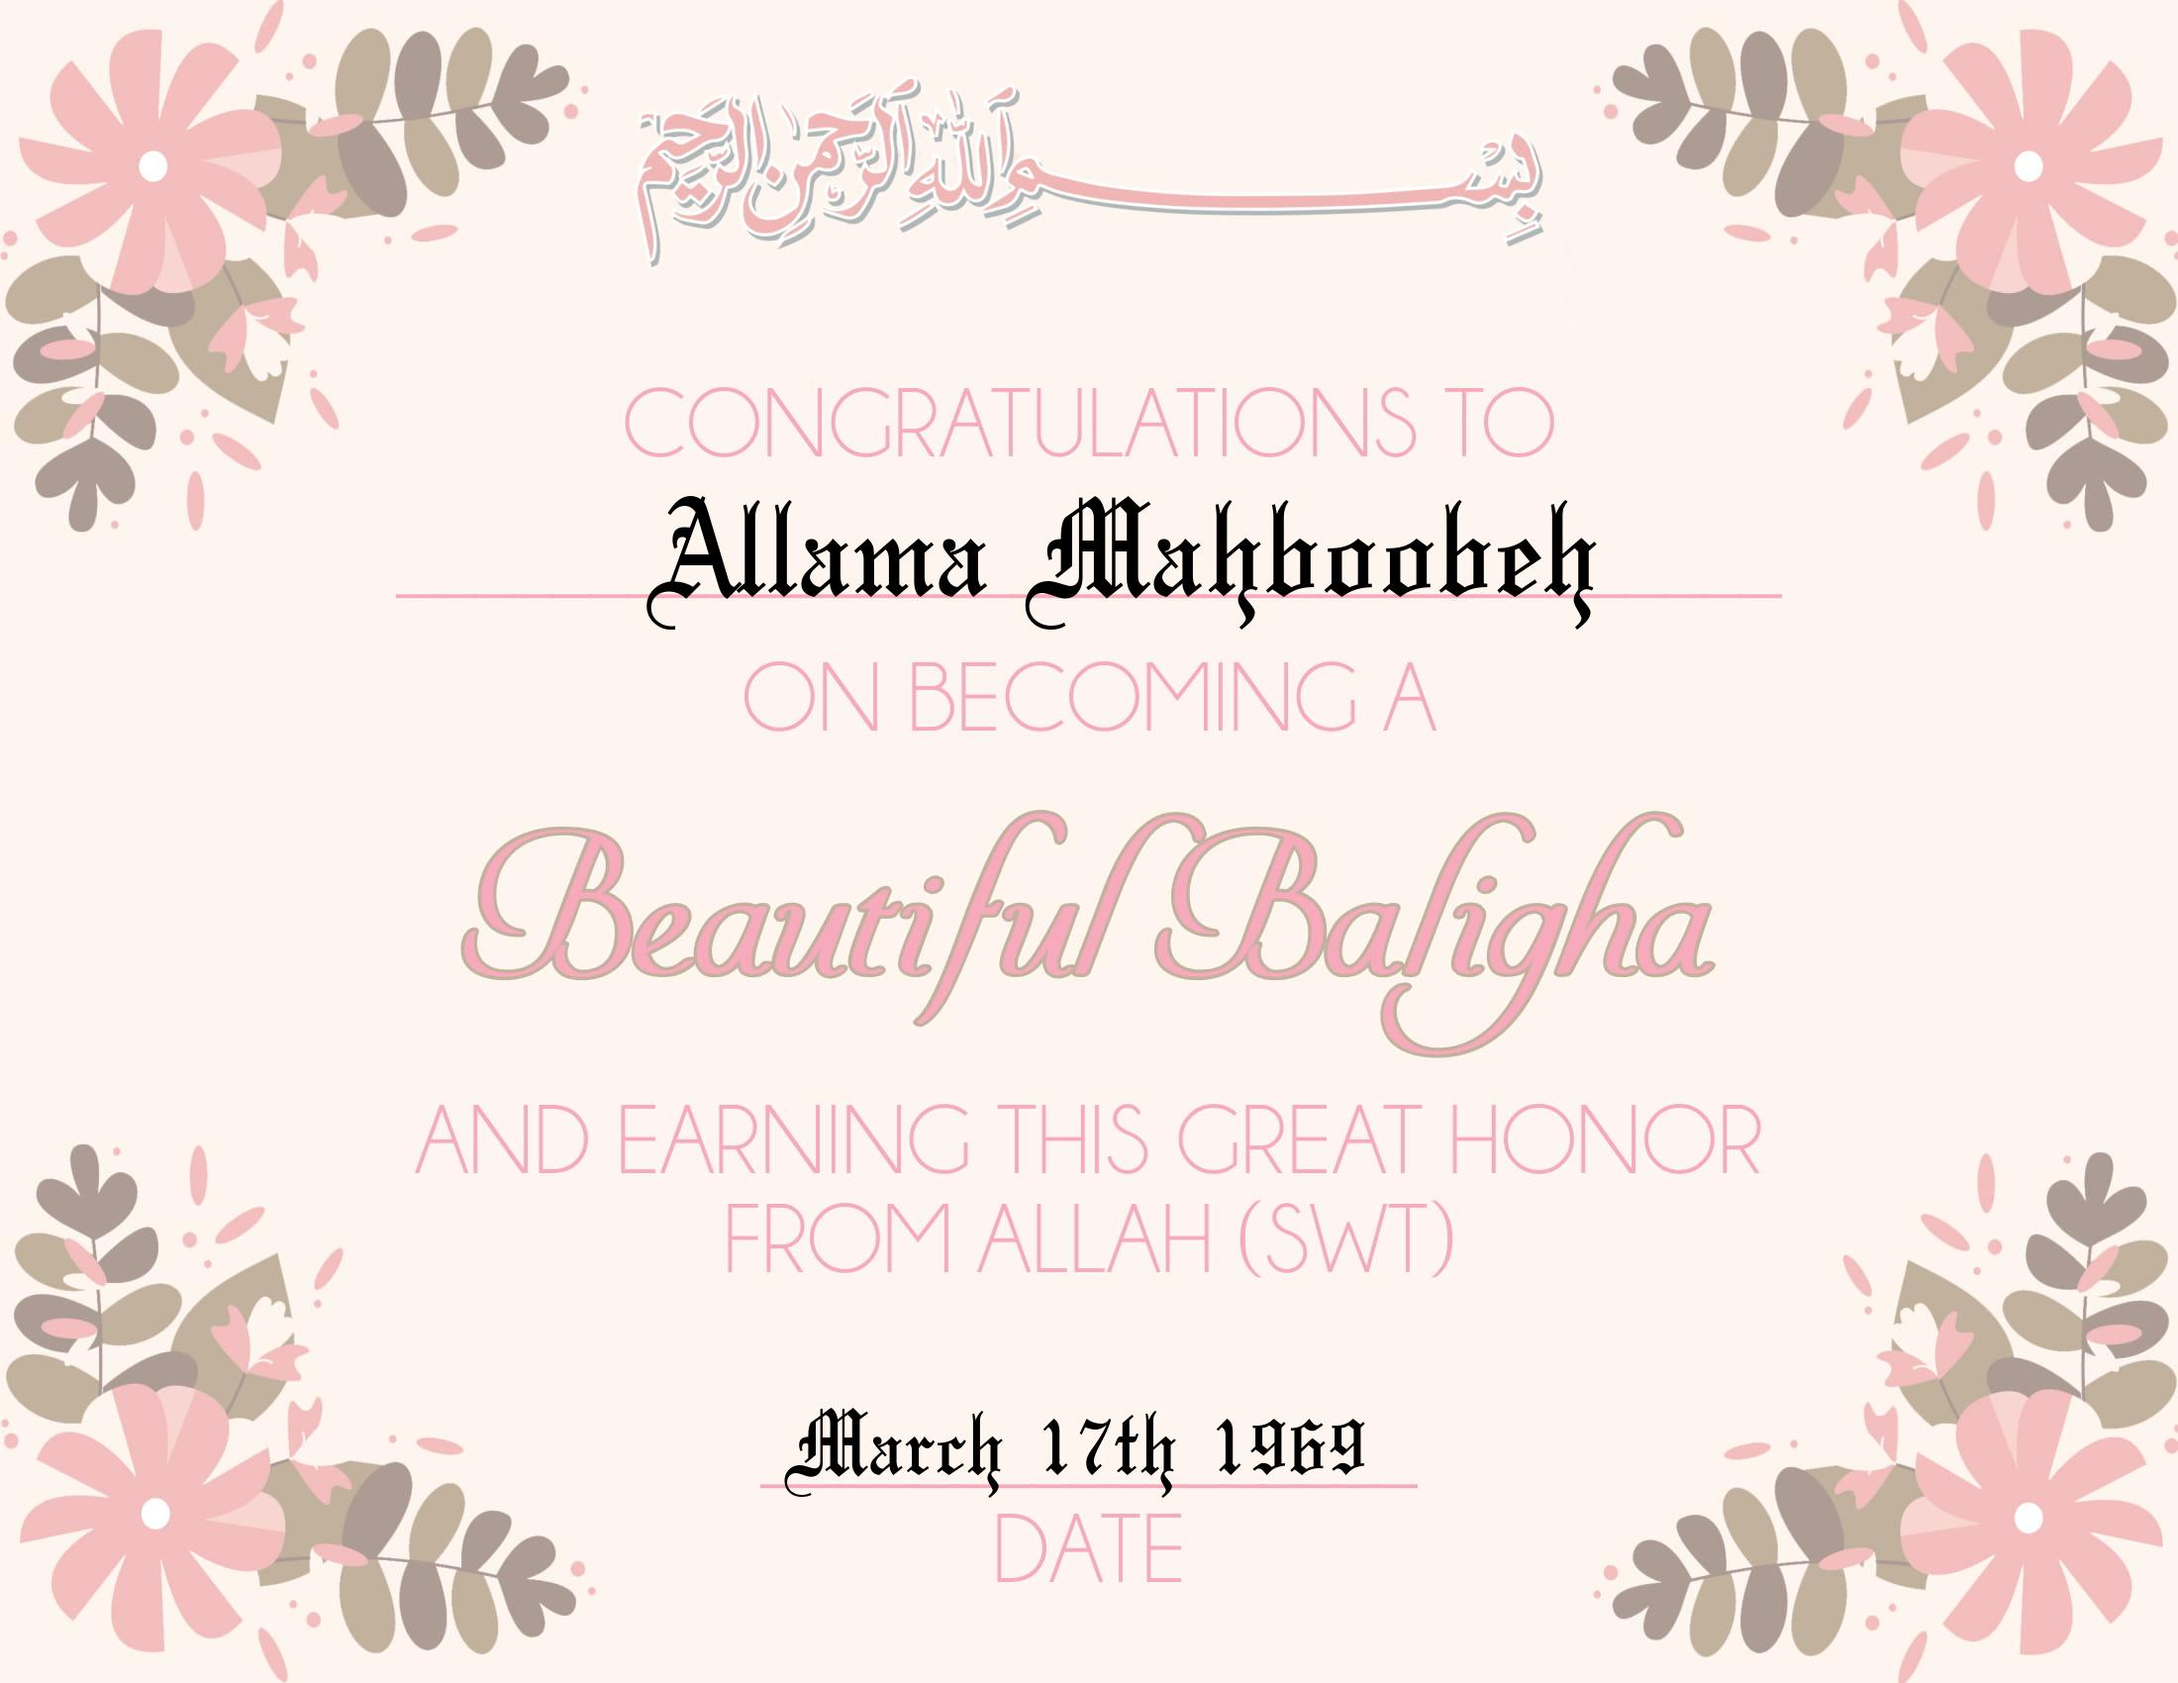
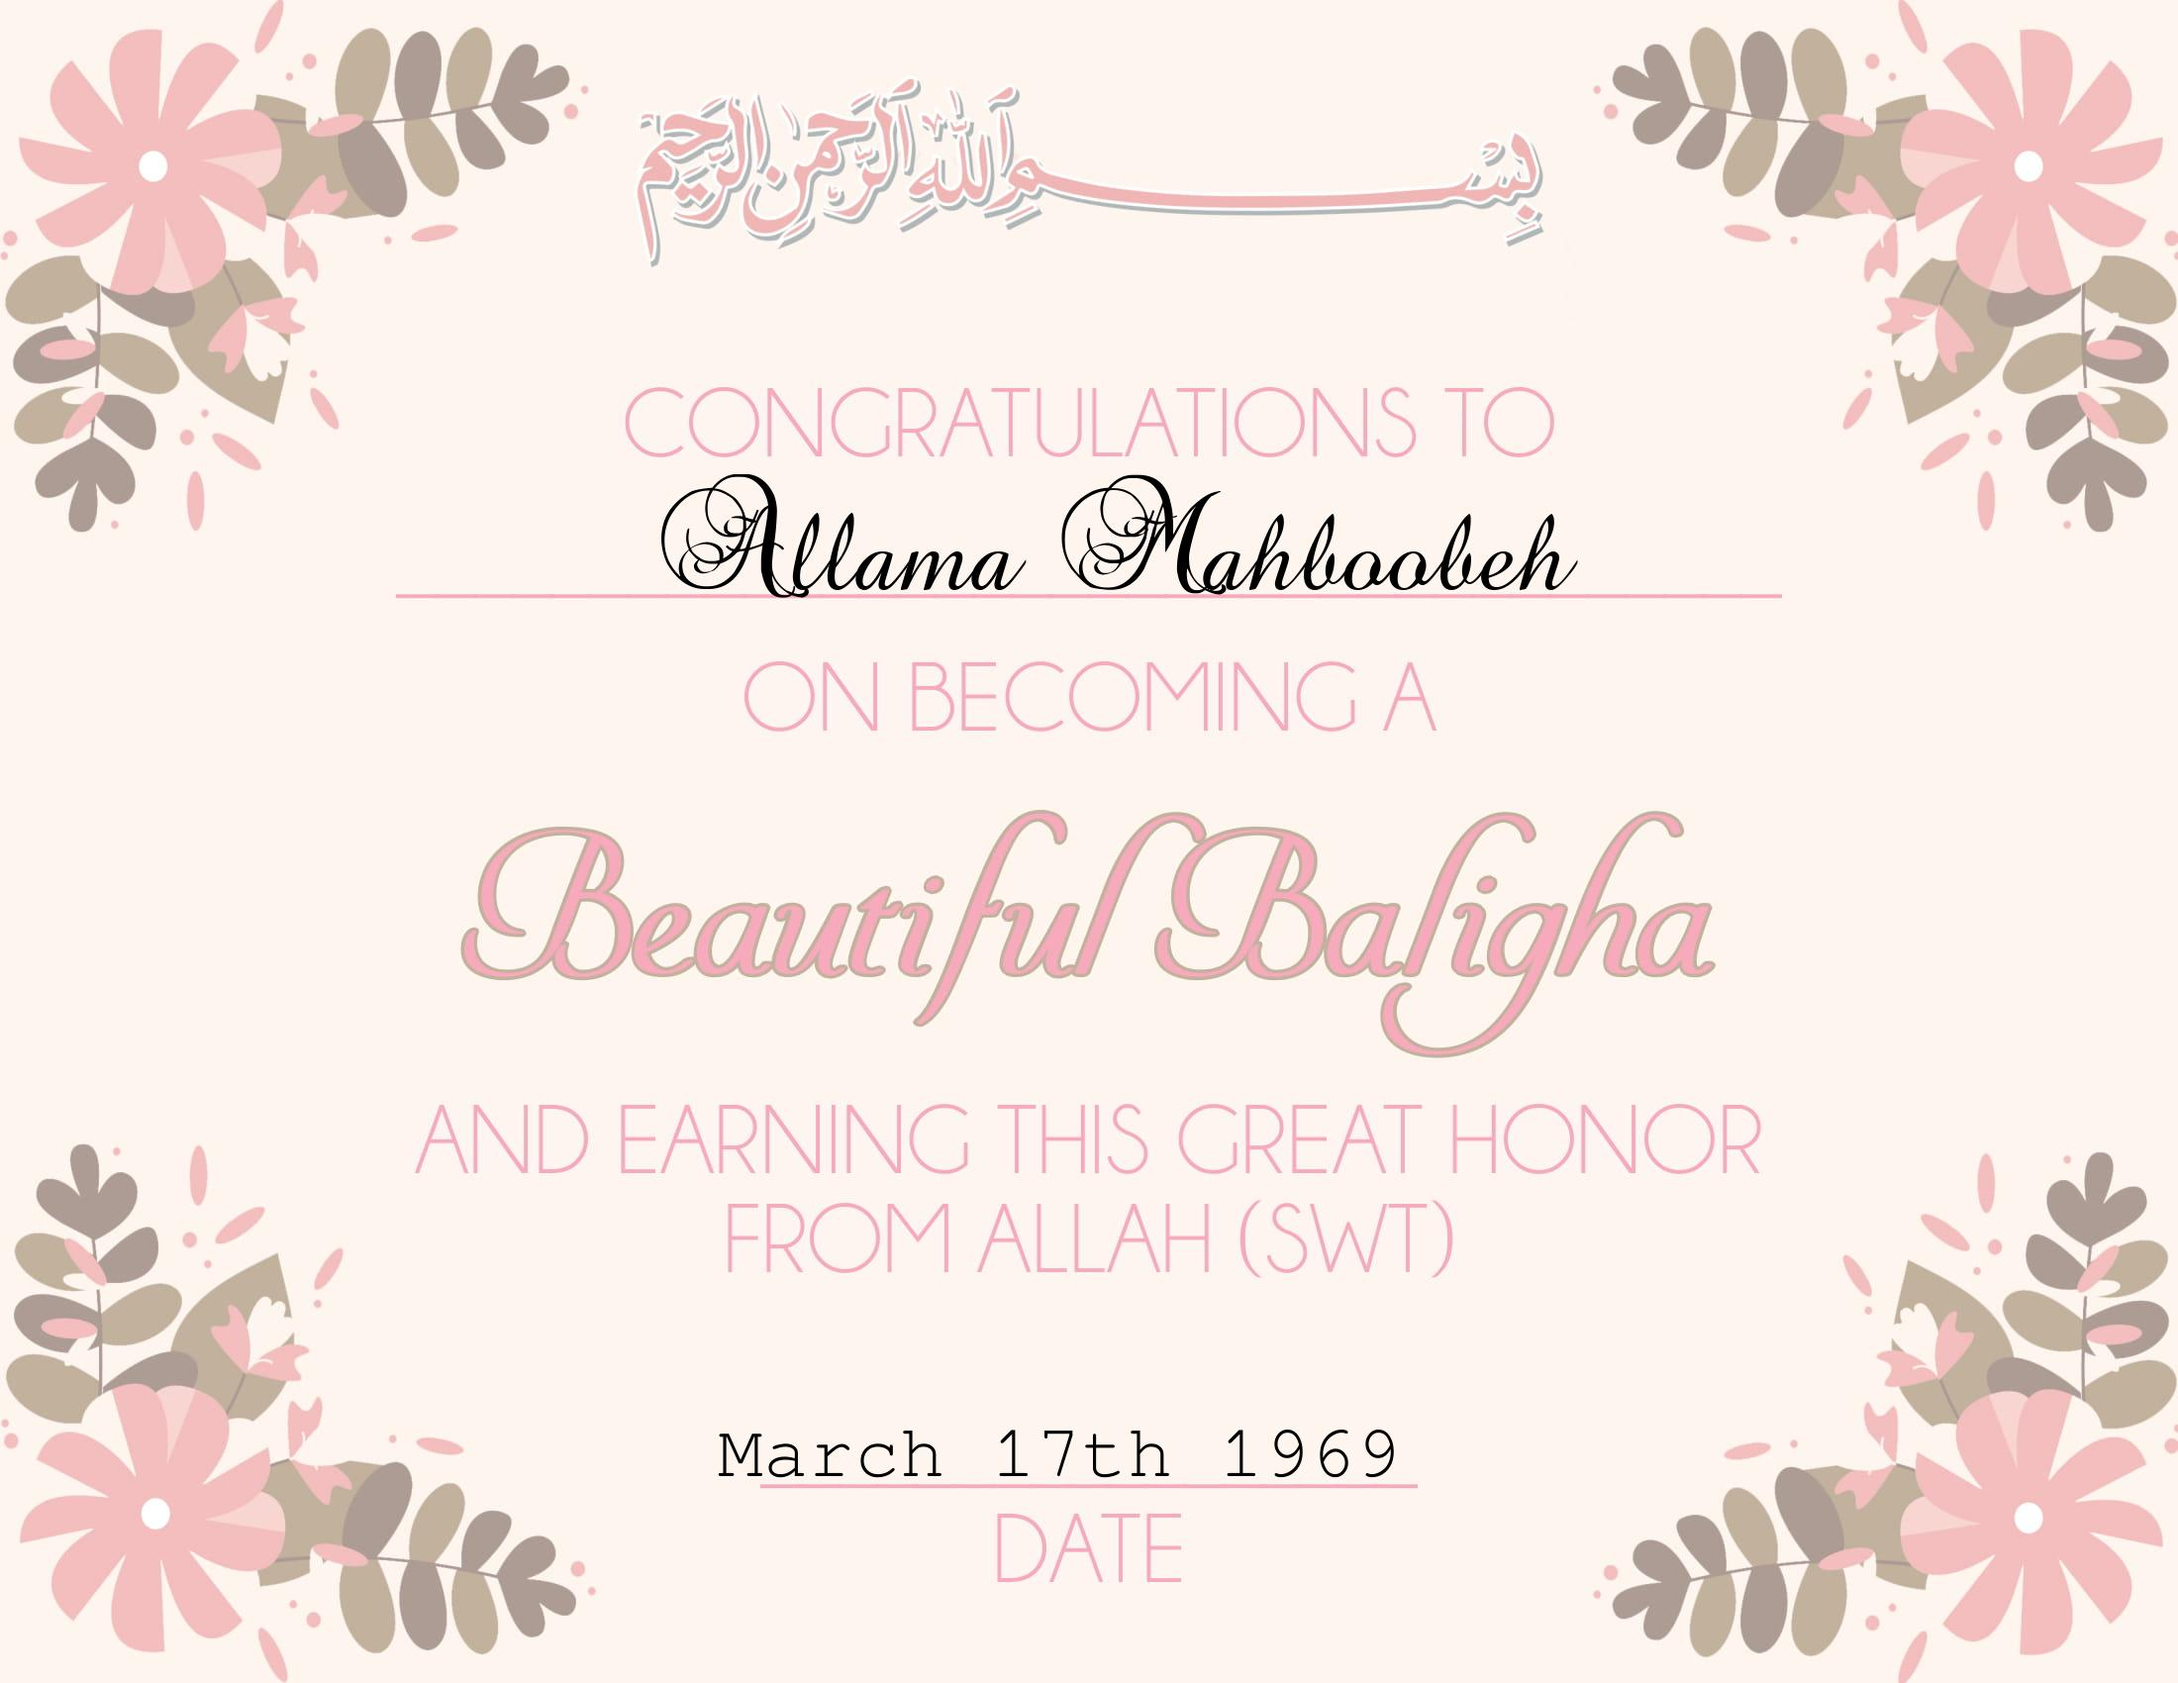
adjusted font placement

Changed region(s): [[0.2782, 0.2806, 0.7418, 0.3741], [0.34, 0.8418, 0.6491, 0.9041]]

diff --git a/main.py b/main.py
@@ -61,10 +61,10 @@ class CertMaker:
         NAME_X = (width - (len(name)*55)) / 2 
         NAME_Y = 500
         DATE_X = (width - (len(dt)*50)) / 2 
-        DATE_Y = 1420 # 1422
+        DATE_Y = 1430
         d1 = ImageDraw.Draw(img)
         name_Font = ImageFont.truetype(self.config.name_font_name, 110)
-        date_Font = ImageFont.truetype(self.config.date_font_name, 70)
+        date_Font = ImageFont.truetype(self.config.date_font_name, 76)
         d1.text((NAME_X, NAME_Y), name, font=name_Font, fill =(0, 0, 0))
         d1.text((DATE_X, DATE_Y), dt, font=date_Font, fill =(0, 0, 0))
         # img.show()
